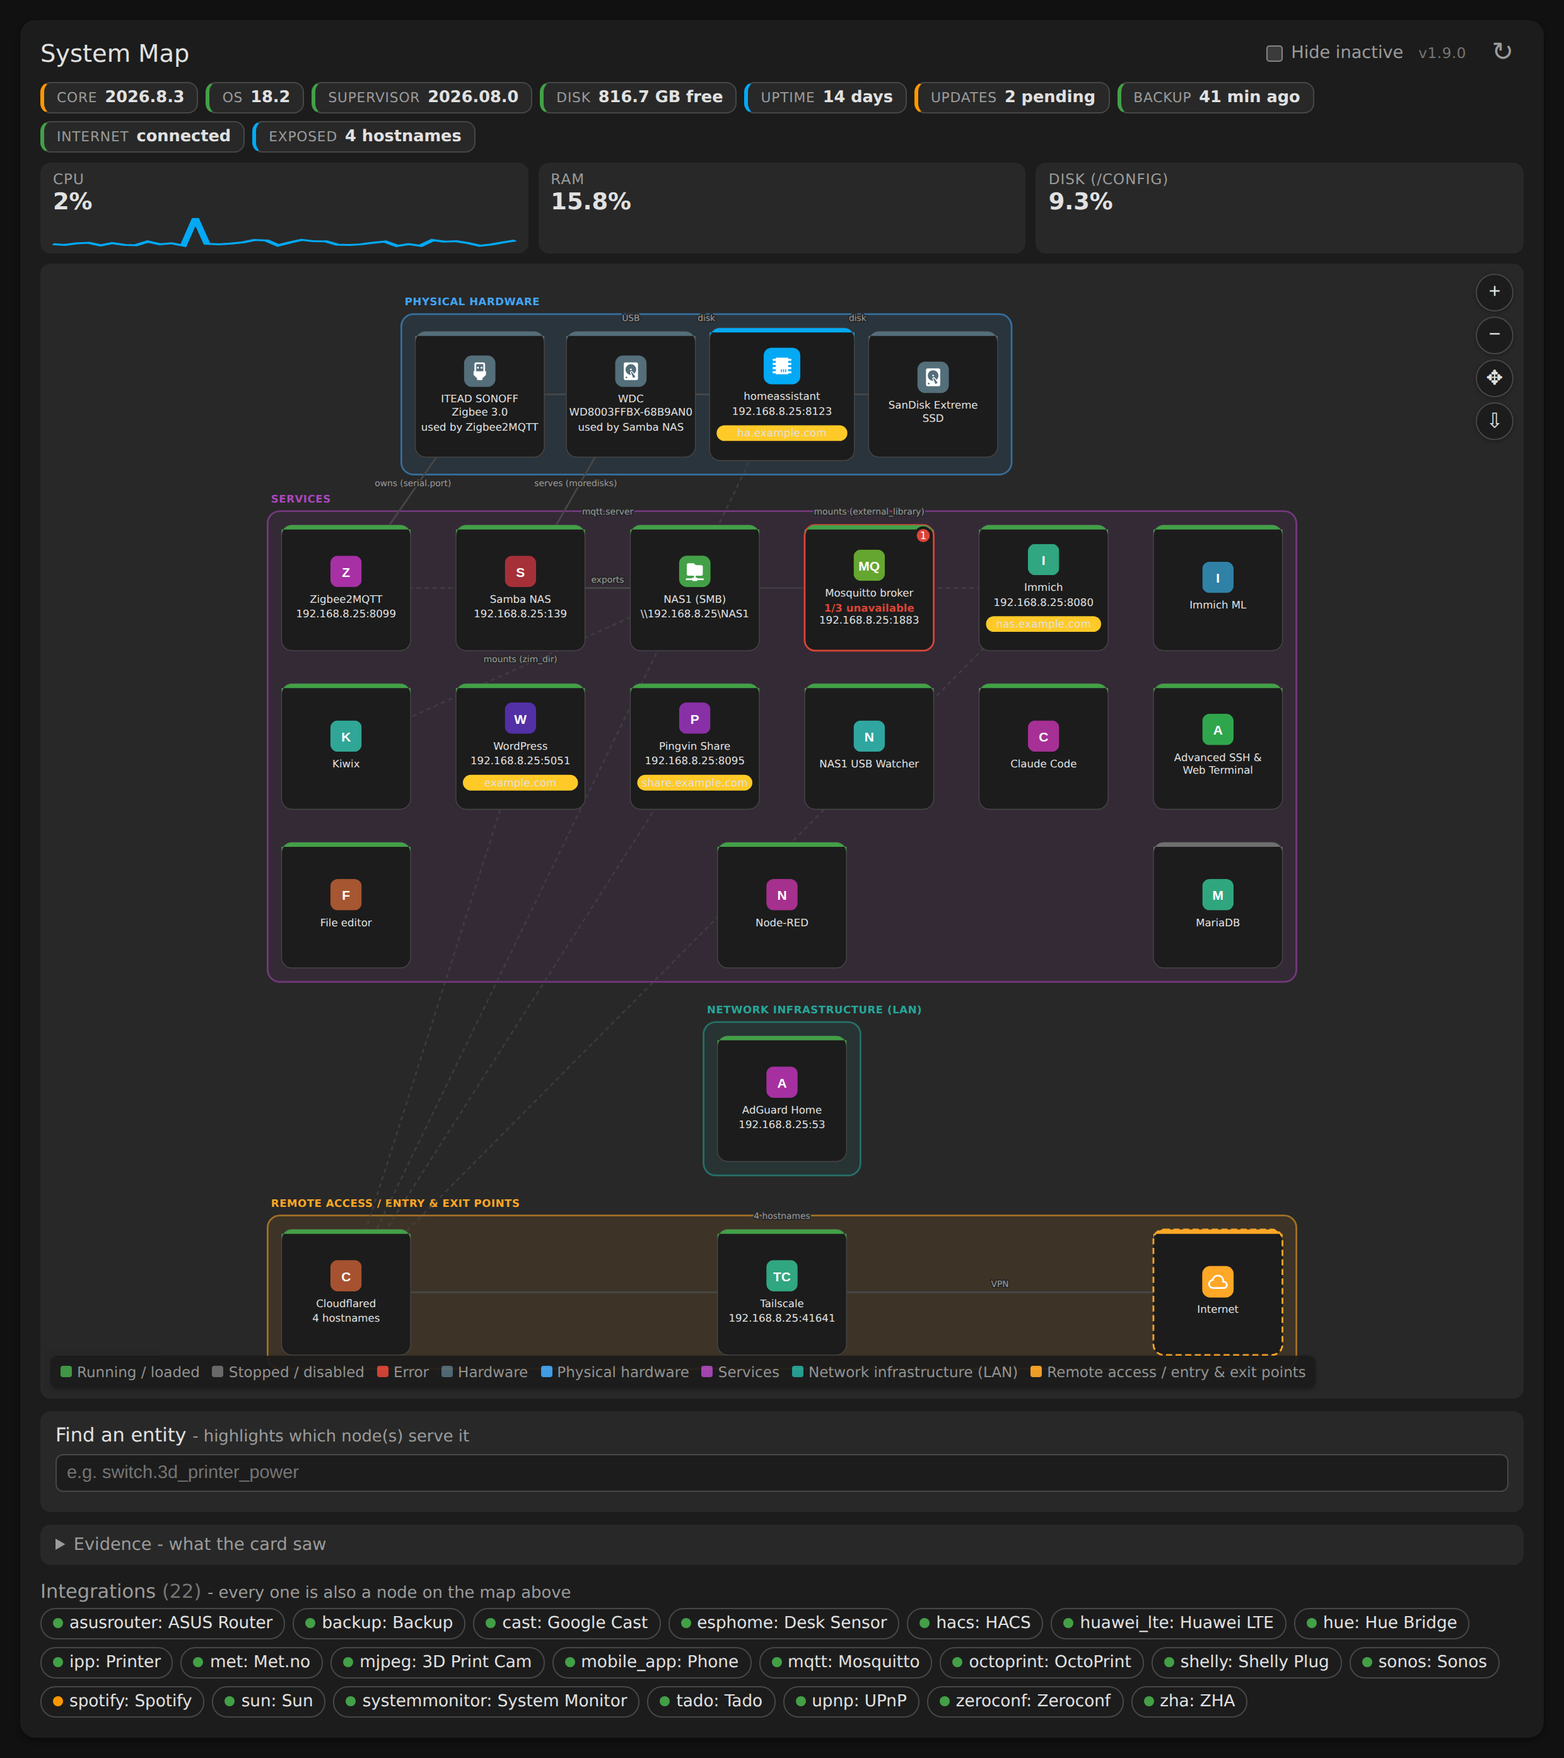
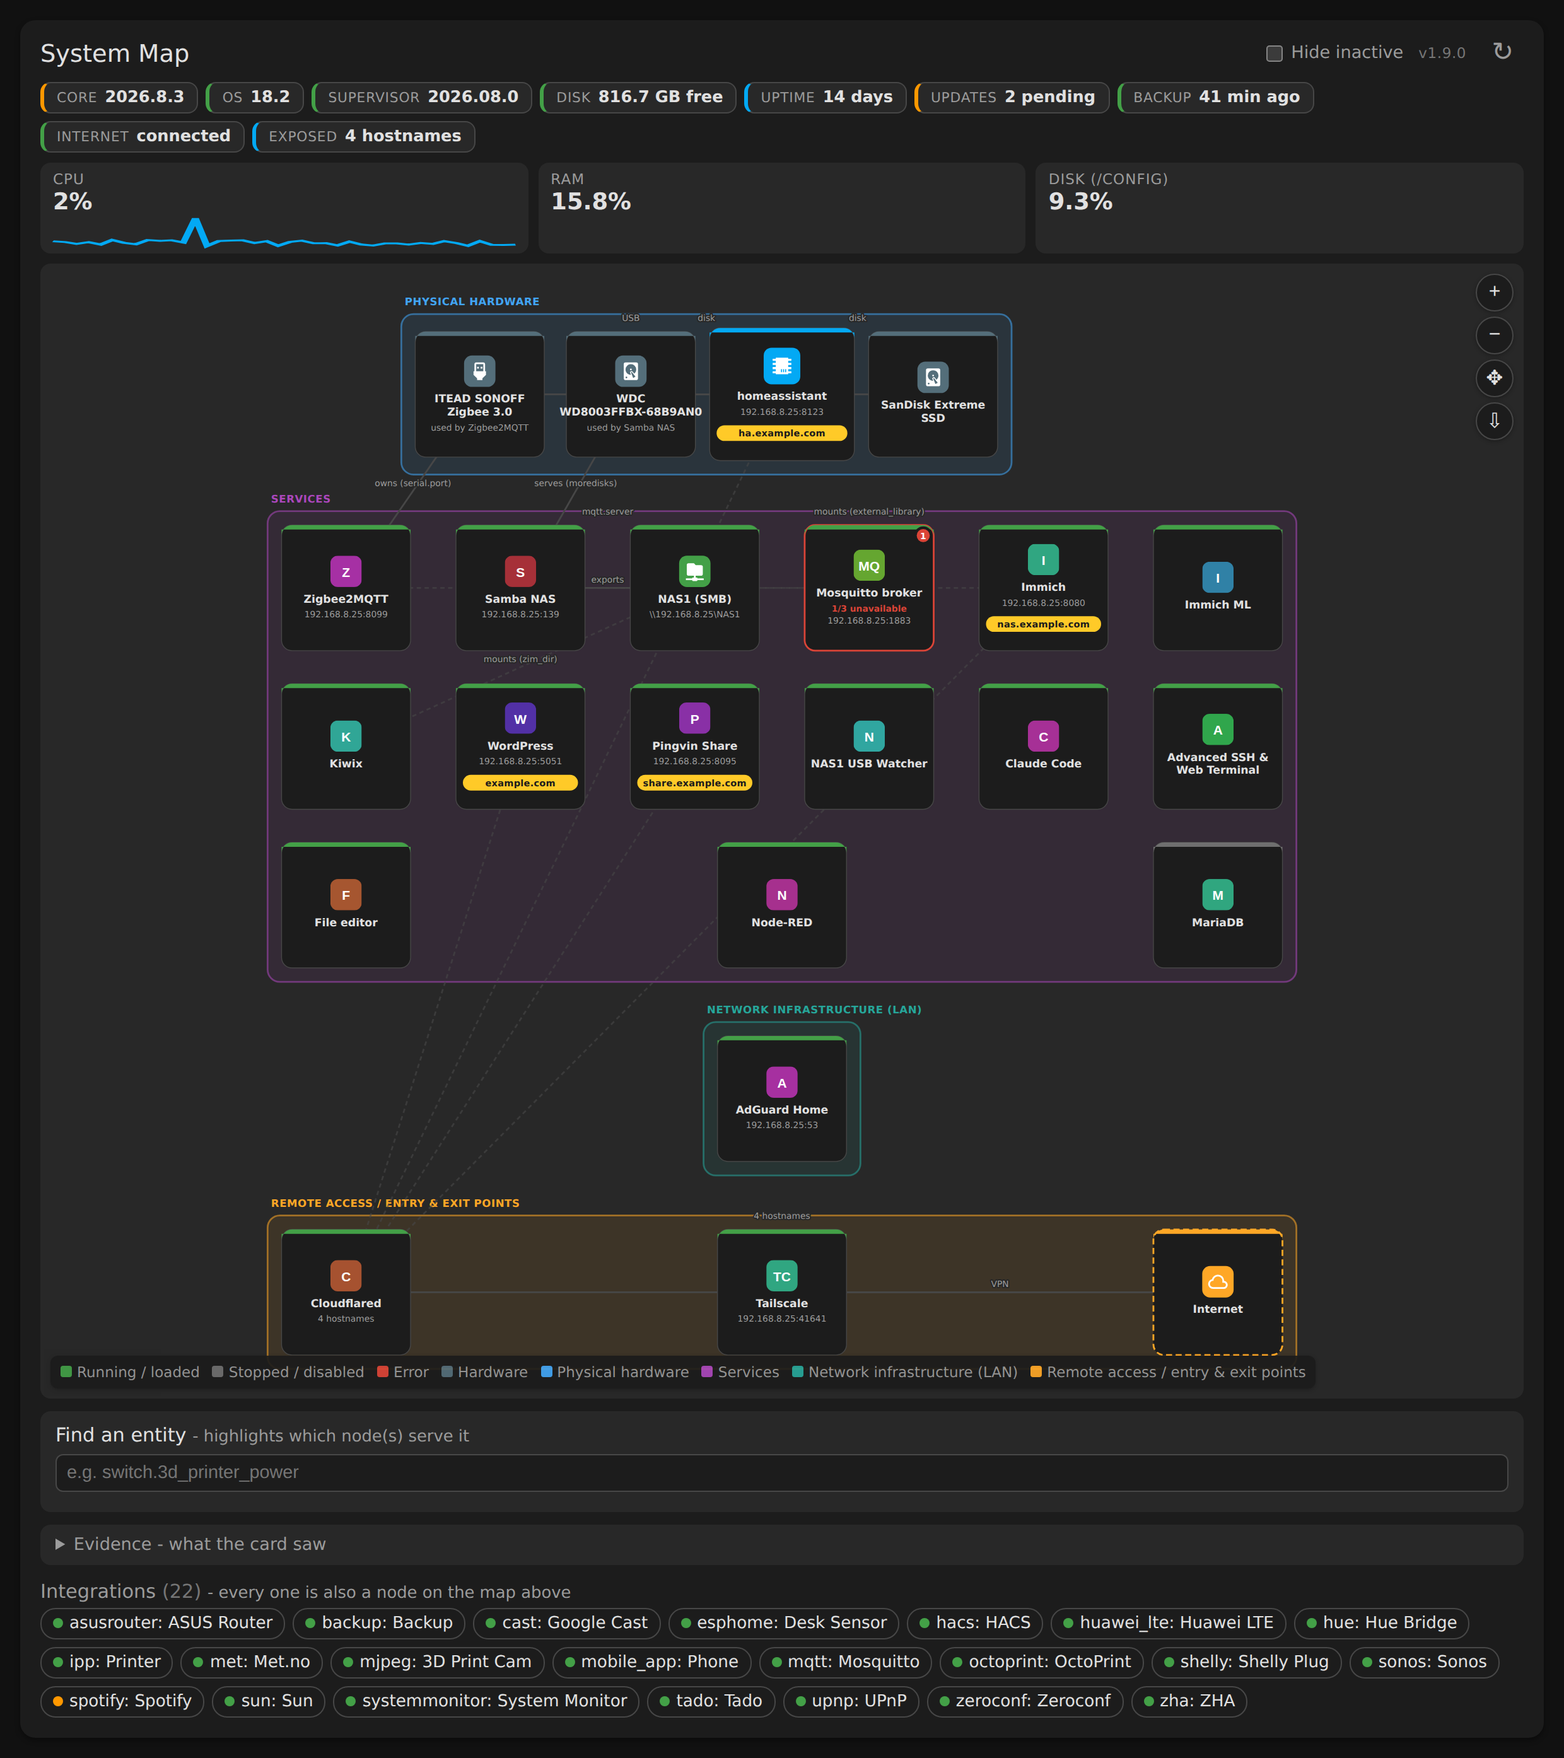
Pinch to zoom, and stop the card rules losing the cascade (v1.10.0)
Two fingers now zoom the map. A phone has no wheel, and the on-screen
buttons are a poor stand-in for the gesture people already know.

The zoom is about a moving anchor: the user-space point under the midpoint
of the two fingers when they went down stays under that midpoint for the
whole gesture, so the map tracks the fingers instead of drifting away from
them - and two-finger panning falls out of the same maths for free, since a
midpoint that moves is indistinguishable from one the map should follow.
The anchor is read through the live screen CTM rather than by dividing out
the element's box, because the SVG letterboxes inside its element whenever
the two aspect ratios differ.

The awkward parts are the transitions. A one-finger drag already in flight
holds pointer capture and its own origin, so it is ended when the second
finger lands or it pans against the pinch. Lifting back to one finger
re-seeds the drag from where that finger is now, not where it went down,
or the map jumps by however far it travelled during the pinch. And a pinch
ends as a pointerup on whatever was under the fingers, which the browser
reports as a click - so that one click is swallowed rather than opening a
node's detail panel. Click handling moved into a method of its own to make
that last one testable without standing up the whole shell.

The hostname pill was also white text on amber, which was the visible part
of a cascade bug with a wider blast radius: `.smc-node text` is specificity
[…]

diff --git a/system-map-card.js b/system-map-card.js
@@ -112,7 +112,7 @@
 // version in the console is always the version of the file that's running -
 // which is the first thing worth knowing when a dashboard misbehaves after
 // an update, and the quickest way to catch a stale browser cache.
-const VERSION = "1.9.0";
+const VERSION = "1.10.0";
 
 console.info(
   `%c SYSTEM-MAP-CARD %c v${VERSION} `,
@@ -1046,9 +1046,7 @@ class SystemMapCard extends HTMLElement {
         .smc-tier-label { font-size: 12px; font-weight: 700; letter-spacing: 0.4px; text-transform: uppercase; }
         .smc-badge { fill: #ffca28; font-size: 10px; font-weight: 700; text-anchor: middle; letter-spacing: 0.3px; }
         .smc-node circle { stroke: var(--card-background-color, #fff); stroke-width: 3; cursor: pointer; transition: opacity 0.15s ease; }
-        .smc-node text { fill: var(--primary-text-color); font-size: 12px; font-weight: 500; text-anchor: middle; pointer-events: none; }
-        .smc-node .smc-sub { fill: var(--secondary-text-color); font-size: 10px; font-weight: 400; }
-        .smc-node.smc-node-small text { font-size: 9px; fill: white; }
+        .smc-node-small text { fill: white; font-size: 9px; font-weight: 500; text-anchor: middle; pointer-events: none; }
         .smc-node.smc-dim { opacity: 0.2; }
         .smc-node-small.smc-hi circle { stroke: #ffca28; stroke-width: 5; }
         .smc-edge { stroke: var(--divider-color, #999); stroke-width: 2; fill: none; transition: opacity 0.15s ease; }
@@ -1111,15 +1109,15 @@ class SystemMapCard extends HTMLElement {
         .smc-card { fill: var(--card-background-color, #1c1c1c); stroke: var(--divider-color, #4a4a4a); stroke-width: 1; cursor: pointer; transition: opacity 0.15s ease; }
         .smc-card-node:hover .smc-card { stroke: var(--primary-color, #3f51b5); stroke-width: 2; }
         .smc-card-stripe { pointer-events: none; }
-        .smc-card-name { fill: var(--primary-text-color); font-size: 12.5px; font-weight: 600; text-anchor: middle; pointer-events: none; }
-        .smc-card-sub { fill: var(--secondary-text-color); font-size: 10px; font-weight: 400; text-anchor: middle; pointer-events: none; }
-        .smc-card-sub.smc-card-bad { fill: var(--error-color, #db4437); font-weight: 600; }
+        .smc-card-node .smc-card-name { fill: var(--primary-text-color); font-size: 12.5px; font-weight: 600; text-anchor: middle; pointer-events: none; }
+        .smc-card-node .smc-card-sub { fill: var(--secondary-text-color); font-size: 10px; font-weight: 400; text-anchor: middle; pointer-events: none; }
+        .smc-card-node .smc-card-sub.smc-card-bad { fill: var(--error-color, #db4437); font-weight: 600; }
         /* The hostname is the one fact worth spotting from across the room -
            if a node has one it is reachable from outside - so it gets the
            same amber the boundary and the EXPOSED status pill use, filled
            rather than outlined so it reads before the node's own name does. */
-        .smc-host-pill { fill: #ffca28; pointer-events: none; }
-        .smc-host-pill-text { fill: #1b1b1b; font-size: 10.5px; font-weight: 700; text-anchor: middle; letter-spacing: 0.2px; pointer-events: none; }
+        .smc-card-node .smc-host-pill { fill: #ffca28; pointer-events: none; }
+        .smc-card-node .smc-host-pill-text { fill: #1b1b1b; font-size: 10.5px; font-weight: 700; text-anchor: middle; letter-spacing: 0.2px; pointer-events: none; }
         .smc-card-node.smc-problem .smc-card { stroke: var(--error-color, #db4437); stroke-width: 2; }
         .smc-card-node.smc-hi .smc-card { stroke: #ffca28; stroke-width: 3; }
         .smc-problem-badge { fill: var(--error-color, #db4437); font-size: 10px; font-weight: 700; text-anchor: middle; }
@@ -1165,21 +1163,31 @@ class SystemMapCard extends HTMLElement {
 
     // Event delegation for clicks - listeners attached once here rather
     // than re-bound on every render.
-    this.addEventListener("click", (ev) => {
-      if (ev.target.closest(".smc-filter, .smc-zoom-controls, .smc-finder")) return;
-      const node = ev.target.closest("[data-node]");
-      if (node) return this._openDetail("node", node.getAttribute("data-node"));
-      const addonNode = ev.target.closest("[data-node-addon]");
-      if (addonNode) return this._openDetail("addon", addonNode.getAttribute("data-node-addon"));
-      const entryNode = ev.target.closest("[data-node-entry]");
-      if (entryNode) return this._openDetail("entry", entryNode.getAttribute("data-node-entry"));
-      const pill = ev.target.closest("[data-status]");
-      if (pill) return this._openDetail("status", pill.getAttribute("data-status"));
-      const chip = ev.target.closest("[data-chip]");
-      if (chip) return this._openDetail(chip.getAttribute("data-chip-kind"), chip.getAttribute("data-chip"));
-      const close = ev.target.closest(".smc-detail-close");
-      if (close) return this._closeDetail();
-    });
+    this.addEventListener("click", (ev) => this._onCardClick(ev));
+  }
+
+  // Delegated: one listener for the whole card, so re-rendering the graph
+  // never has to rewire anything.
+  _onCardClick(ev) {
+    if (ev.target.closest(".smc-filter, .smc-zoom-controls, .smc-finder")) return;
+    // A pinch ends as a pointerup on whatever was under the fingers, which
+    // the browser then reports as a click on that node.
+    if (this._suppressClick) {
+      this._suppressClick = false;
+      return;
+    }
+    const node = ev.target.closest("[data-node]");
+    if (node) return this._openDetail("node", node.getAttribute("data-node"));
+    const addonNode = ev.target.closest("[data-node-addon]");
+    if (addonNode) return this._openDetail("addon", addonNode.getAttribute("data-node-addon"));
+    const entryNode = ev.target.closest("[data-node-entry]");
+    if (entryNode) return this._openDetail("entry", entryNode.getAttribute("data-node-entry"));
+    const pill = ev.target.closest("[data-status]");
+    if (pill) return this._openDetail("status", pill.getAttribute("data-status"));
+    const chip = ev.target.closest("[data-chip]");
+    if (chip) return this._openDetail(chip.getAttribute("data-chip-kind"), chip.getAttribute("data-chip"));
+    const close = ev.target.closest(".smc-detail-close");
+    if (close) return this._closeDetail();
   }
 
   // --- zoom / pan -----------------------------------------------------
@@ -1207,42 +1215,28 @@ class SystemMapCard extends HTMLElement {
       { passive: false }
     );
 
-    let pointerState = null;
+    // Every pointer currently down, because a phone's second finger is what
+    // turns a pan into a pinch and there is no other way to know it arrived.
+    const pointers = new Map();
+    let pointerState = null; // one-finger / mouse drag
+    let pinch = null; // two-finger zoom
     const DRAG_THRESHOLD = 4;
 
-    wrap.addEventListener("pointerdown", (ev) => {
-      if (ev.target.closest(".smc-zoom-controls")) return;
-      const svg = this.querySelector(".smc-graph svg");
-      if (!svg || !this._viewBox) return;
-      pointerState = {
-        pointerId: ev.pointerId,
-        startX: ev.clientX,
-        startY: ev.clientY,
-        vbX: this._viewBox.x,
-        vbY: this._viewBox.y,
-        rectW: svg.clientWidth || 1,
-        rectH: svg.clientHeight || 1,
-        dragging: false,
-      };
-    });
-    wrap.addEventListener("pointermove", (ev) => {
-      if (!pointerState || !this._viewBox) return;
-      const dx = ev.clientX - pointerState.startX;
-      const dy = ev.clientY - pointerState.startY;
-      if (!pointerState.dragging) {
-        if (Math.abs(dx) < DRAG_THRESHOLD && Math.abs(dy) < DRAG_THRESHOLD) return;
-        pointerState.dragging = true;
-        wrap.setPointerCapture(pointerState.pointerId);
-        const svg = this.querySelector(".smc-graph svg");
-        if (svg) svg.style.cursor = "grabbing";
-      }
-      const vb = this._viewBox;
-      const scaleX = vb.w / pointerState.rectW;
-      const scaleY = vb.h / pointerState.rectH;
-      vb.x = pointerState.vbX - dx * scaleX;
-      vb.y = pointerState.vbY - dy * scaleY;
-      this._applyViewBox();
-    });
+    const graphSvg = () => this.querySelector(".smc-graph svg");
+
+    // Screen to user space through the live CTM rather than by dividing out
+    // the element's box: the SVG letterboxes inside its element whenever the
+    // two aspect ratios differ, and the CTM already accounts for that.
+    const toSvg = (x, y) => {
+      const svg = graphSvg();
+      const ctm = svg?.getScreenCTM?.();
+      if (!ctm) return null;
+      const pt = svg.createSVGPoint();
+      pt.x = x;
+      pt.y = y;
+      return pt.matrixTransform(ctm.inverse());
+    };
+
     const endDrag = () => {
       if (pointerState?.dragging) {
         try {
@@ -1250,11 +1244,88 @@ class SystemMapCard extends HTMLElement {
         } catch (_) {}
       }
       pointerState = null;
-      const svg = this.querySelector(".smc-graph svg");
+      const svg = graphSvg();
       if (svg) svg.style.cursor = "grab";
     };
-    wrap.addEventListener("pointerup", endDrag);
-    wrap.addEventListener("pointercancel", endDrag);
+
+    const beginDrag = (pointerId, clientX, clientY) => {
+      const svg = graphSvg();
+      if (!svg || !this._viewBox) return;
+      pointerState = {
+        pointerId,
+        startX: clientX,
+        startY: clientY,
+        vbX: this._viewBox.x,
+        vbY: this._viewBox.y,
+        rectW: svg.clientWidth || 1,
+        rectH: svg.clientHeight || 1,
+        dragging: false,
+      };
+    };
+
+    const beginPinch = () => {
+      const [a, b] = [...pointers.values()];
+      const dist = Math.hypot(a.x - b.x, a.y - b.y);
+      const mid = toSvg((a.x + b.x) / 2, (a.y + b.y) / 2);
+      if (!dist || !mid || !this._viewBox) return;
+      // A one-finger drag may already be in flight and holding pointer
+      // capture; left running it would pan against the pinch.
+      endDrag();
+      pinch = { dist, mid, vb: { ...this._viewBox } };
+    };
+
+    wrap.addEventListener("pointerdown", (ev) => {
+      if (ev.target.closest(".smc-zoom-controls")) return;
+      pointers.set(ev.pointerId, { x: ev.clientX, y: ev.clientY });
+      if (pointers.size === 2) return beginPinch();
+      if (pointers.size > 2) return;
+      beginDrag(ev.pointerId, ev.clientX, ev.clientY);
+    });
+
+    wrap.addEventListener("pointermove", (ev) => {
+      if (pointers.has(ev.pointerId)) pointers.set(ev.pointerId, { x: ev.clientX, y: ev.clientY });
+
+      if (pinch && pointers.size >= 2) {
+        ev.preventDefault();
+        const [a, b] = [...pointers.values()];
+        const dist = Math.hypot(a.x - b.x, a.y - b.y);
+        if (dist) this._pinchTo(pinch, dist, toSvg((a.x + b.x) / 2, (a.y + b.y) / 2));
+        return;
+      }
+
+      if (!pointerState || pointerState.pointerId !== ev.pointerId || !this._viewBox) return;
+      const dx = ev.clientX - pointerState.startX;
+      const dy = ev.clientY - pointerState.startY;
+      if (!pointerState.dragging) {
+        if (Math.abs(dx) < DRAG_THRESHOLD && Math.abs(dy) < DRAG_THRESHOLD) return;
+        pointerState.dragging = true;
+        wrap.setPointerCapture(pointerState.pointerId);
+        const svg = graphSvg();
+        if (svg) svg.style.cursor = "grabbing";
+      }
+      const vb = this._viewBox;
+      vb.x = pointerState.vbX - dx * (vb.w / pointerState.rectW);
+      vb.y = pointerState.vbY - dy * (vb.h / pointerState.rectH);
+      this._applyViewBox();
+    });
+
+    const releasePointer = (ev) => {
+      pointers.delete(ev.pointerId);
+      if (pinch) {
+        if (pointers.size >= 2) return;
+        pinch = null;
+        // Lifting one finger must not hand the map to the other mid-gesture:
+        // the remaining pointer has travelled since it went down, so the
+        // drag is re-seeded from where that finger is now, not where it was.
+        const [id, pos] = [...pointers.entries()][0] || [];
+        this._suppressClick = true;
+        if (id === undefined) return endDrag();
+        return beginDrag(id, pos.x, pos.y);
+      }
+      if (pointerState?.pointerId === ev.pointerId) endDrag();
+    };
+    wrap.addEventListener("pointerup", releasePointer);
+    wrap.addEventListener("pointercancel", releasePointer);
 
     this.querySelector(".smc-zoom-in").addEventListener("click", () => this._zoomBy(0.8));
     this.querySelector(".smc-zoom-out").addEventListener("click", () => this._zoomBy(1.25));
@@ -1384,6 +1455,25 @@ class SystemMapCard extends HTMLElement {
     vb.y = centerY - ratioY * newH;
     vb.w = newW;
     vb.h = newH;
+    this._applyViewBox();
+  }
+
+  // A pinch is a zoom about a moving anchor: the user-space point that was
+  // under the midpoint of the two fingers when they went down stays under
+  // that midpoint for the whole gesture. Two-finger panning falls out of
+  // that for free, since the midpoint moving is indistinguishable from it.
+  _pinchTo(pinch, dist, mid) {
+    if (!this._viewBox || !this._naturalViewBox || !mid) return;
+    const vb = this._viewBox;
+    const nat = this._naturalViewBox;
+    const newW = Math.min(nat.w, Math.max(nat.w * 0.12, pinch.vb.w * (pinch.dist / dist)));
+    const newH = newW / (nat.w / nat.h);
+    // How far across the current view the midpoint sits. The viewBox aspect
+    // never changes, so this fraction survives the resize unaltered and can
+    // be reused to place the anchor in the new box.
+    const tx = (mid.x - vb.x) / vb.w;
+    const ty = (mid.y - vb.y) / vb.h;
+    this._viewBox = { x: pinch.mid.x - tx * newW, y: pinch.mid.y - ty * newH, w: newW, h: newH };
     this._applyViewBox();
   }
 

diff --git a/CHANGELOG.md b/CHANGELOG.md
@@ -8,6 +8,32 @@ was already there in a way an existing dashboard would notice.
 `VERSION` in `system-map-card.js` is the source of truth and CI refuses to
 publish a release whose tag doesn't match it.
 
+## [1.10.0] - 2026-09-02
+
+### Added
+
+- **Pinch to zoom, and two-finger pan.** A phone has no scroll wheel and the
+  on-screen zoom buttons are a poor substitute for the gesture everyone
+  already knows. Two fingers now zoom the map about the point between them:
+  whatever was under the midpoint when the fingers went down stays under it
+  for the whole gesture, so the map tracks the fingers rather than drifting,
+  and dragging both fingers pans as a side effect of the same maths. Lifting
+  back to one finger resumes panning from where that finger currently is
+  instead of jumping the map, and the lift that ends a pinch no longer opens
+  the detail panel of whatever happened to be underneath. The card's click
+  handling moved into a method of its own so the gesture tests can exercise
+  it without standing up the whole shell.
+
+### Fixed
+
+- **The hostname pill was white text on amber.** The rules written for the
+  old circular nodes (`.smc-node text`) are more specific than the card's own
+  (`.smc-card-name`, `.smc-host-pill-text`), so they won the cascade and
+  painted every card, pill included - which is why the pill's dark text never
+  applied and the name and address rendered at the same size and colour. The
+  circle rules are now scoped to the nodes they were written for, and the
+  card rules qualified so they win outright.
+
 ## [1.9.0] - 2026-09-02
 
 ### Changed

diff --git a/README.md b/README.md
@@ -26,7 +26,8 @@ outline and a count.
 - Nothing is ever missing: below the curated tiers, every remaining add-on
   and *every* config entry is auto-laid-out into its own labelled grid, so
   each installed integration has a real node on the map
-- Zoom (mouse wheel or on-screen buttons) and pan (click-drag)
+- Zoom (mouse wheel, pinch, or on-screen buttons) and pan (drag with one
+  finger, the mouse, or two fingers during a pinch)
 - Click any node for live detail: state, version, internal port, and (where
   applicable) its public URL
 - "Hide inactive" filter for stopped add-ons and disabled/ignored
@@ -178,7 +179,7 @@ checked against `VERSION` and refused if the two disagree.
 ## Development
 
 ```
-node test/system-map-card.test.mjs      # 179 assertions, no dependencies
+node test/system-map-card.test.mjs      # 188 assertions, no dependencies
 ```
 
 No build step: the card is evaluated against a stubbed DOM, covering config
